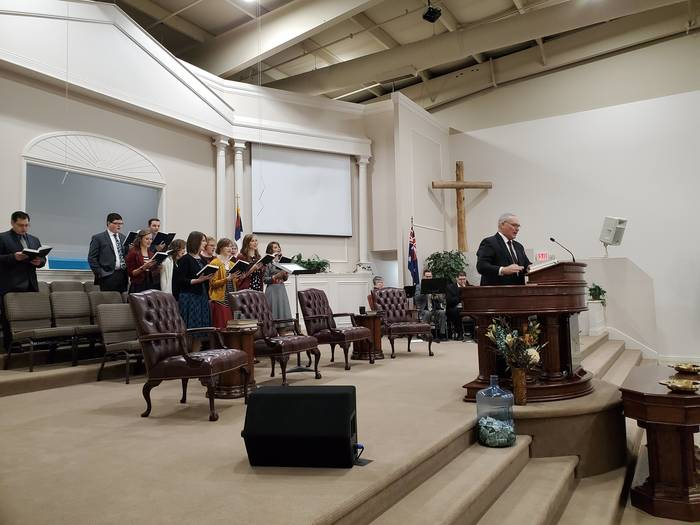
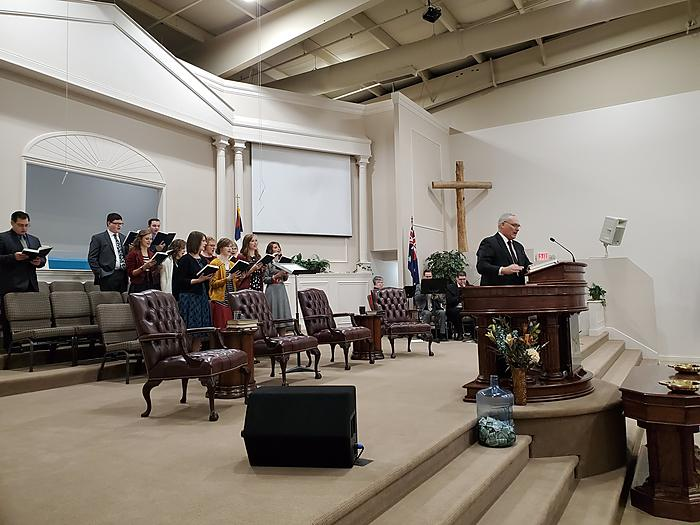
Fix mobile layout: one quick card per row, aligned buttons, sharper photos
The four "quick answers" cards were two-per-row on a phone, leaving each about
150px wide and squeezing the copy to five or six characters per line. They now
sit one per row laid out sideways, icon beside the text, giving a 223px text
column at 18-23 characters per line. This needed a .quick-body wrapper: the card
became a two-column grid but had three children, so the paragraph fell into the
52px icon column.

Button pairs sat in a centred paragraph with an inline margin-left on the second
one, which threw them out of alignment as soon as they wrapped. They now use a
.btn-row that stacks them full-width and flush on narrow screens. Applied on
I'm New, Ministries, Beliefs, Gospel and 404. The gallery also drops to one
column below 520px, and the Expand all control was under the comfortable tap
size.

Audited every page at 375px for overflow, elements past the right edge, squeezed
copy, misaligned button stacks, small tap targets and upscaled images. All clean
now; the contact form was already fine, with 16px fields that avoid iOS zoom.

Photos: the sanctuary images are re-derived from the true originals with a
Lanczos downscale and a light unsharp mask, which is real sharpening rather than
regeneration. They now carry srcset so a phone fetches 700w or 1200w instead of
the full file.

Nine supplied ChatGPT-generated images are deliberately not used and are
preserved in gitignored source-media/ai-generated-NOT-published/ with a README
[…]

diff --git a/im-new.html b/im-new.html
@@ -26,7 +26,7 @@
 <link rel="preconnect" href="https://fonts.googleapis.com">
 <link rel="preconnect" href="https://fonts.gstatic.com" crossorigin>
 <link href="https://fonts.googleapis.com/css2?family=Bitter:wght@600;700&family=Work+Sans:wght@400;500;600&display=swap" rel="stylesheet">
-<link rel="stylesheet" href="style.css?v=8">
+<link rel="stylesheet" href="style.css?v=10">
 </head>
 <body>
 
@@ -79,23 +79,31 @@
     <div class="quick-grid">
       <div class="quick-card fade-up">
         <div class="quick-icon"><svg width="22" height="22" viewBox="0 0 24 24" fill="none" stroke-width="2" stroke-linecap="round" stroke-linejoin="round"><circle cx="12" cy="12" r="9"/><polyline points="12 7 12 12 15.5 14"/></svg></div>
-        <h3>When to come</h3>
-        <p>Sunday at 11:00 am is our main service. Bible classes start at 10:00 am.</p>
+        <div class="quick-body">
+          <h3>When to come</h3>
+          <p>Sunday 11:00 am is the main service. Bible classes at 10:00 am.</p>
+        </div>
       </div>
       <div class="quick-card fade-up">
         <div class="quick-icon"><svg width="22" height="22" viewBox="0 0 24 24" fill="none" stroke-width="2" stroke-linecap="round" stroke-linejoin="round"><path d="M20.4 14.5 16 10 4 20"/><path d="M4 6h4l2-3h4l2 3h4v12H4z"/><circle cx="12" cy="11" r="2.5"/></svg></div>
-        <h3>How long</h3>
-        <p>The service runs a little over an hour, music followed by preaching.</p>
+        <div class="quick-body">
+          <h3>How long</h3>
+          <p>The service runs a little over an hour, music followed by preaching.</p>
+        </div>
       </div>
       <div class="quick-card fade-up">
         <div class="quick-icon"><svg width="22" height="22" viewBox="0 0 24 24" fill="none" stroke-width="2" stroke-linecap="round" stroke-linejoin="round"><path d="M12 3 4 7v6c0 4 3.5 7 8 8 4.5-1 8-4 8-8V7z"/><path d="M9 12l2 2 4-4"/></svg></div>
-        <h3>What to wear</h3>
-        <p>Many dress up, but come as you are. We want you comfortable.</p>
+        <div class="quick-body">
+          <h3>What to wear</h3>
+          <p>Many dress up, but come as you are.</p>
+        </div>
       </div>
       <div class="quick-card fade-up">
         <div class="quick-icon"><svg width="22" height="22" viewBox="0 0 24 24" fill="none" stroke-width="2" stroke-linecap="round" stroke-linejoin="round"><circle cx="9" cy="8" r="3"/><circle cx="17" cy="10" r="2.2"/><path d="M3 20v-1.5A4.5 4.5 0 0 1 7.5 14h3A4.5 4.5 0 0 1 15 18.5V20"/><path d="M17 14.5c2 0 4 1.3 4 3.5V20"/></svg></div>
-        <h3>Your kids</h3>
-        <p>Nursery at every service, plus classes for ages 3 through sixth grade.</p>
+        <div class="quick-body">
+          <h3>Your kids</h3>
+          <p>Nursery at every service, plus classes for ages 3 through sixth grade.</p>
+        </div>
       </div>
     </div>
   </div>
@@ -199,9 +207,9 @@
       </div>
     </div>
 
-    <div style="text-align:center; margin-top:32px;">
+    <div class="btn-row" style="margin-top:32px;">
       <a class="btn btn-primary" href="contact.html">Get in Touch</a>
-      <a class="btn btn-outline" href="https://www.google.com/maps?q=Lighthouse+Baptist+Church,+2445+W.+Kem+Road,+Marion,+IN+46952" style="margin-left:8px;">Get Directions</a>
+      <a class="btn btn-outline" href="https://www.google.com/maps?q=Lighthouse+Baptist+Church,+2445+W.+Kem+Road,+Marion,+IN+46952">Get Directions</a>
     </div>
   </div>
 </section>

diff --git a/style.css b/style.css
@@ -100,6 +100,10 @@ a { color: var(--accent); }
 .btn-primary:hover { background: var(--primary-dark); border-color: var(--primary-dark); }
 .btn-outline { background: transparent; color: var(--primary); border: 2px solid var(--primary); }
 .btn-outline:hover { background: var(--primary); color: #fff; }
+/* Pairs of buttons. Previously these sat in a centred <p> with an inline
+   margin-left on the second one, which threw them out of alignment the moment
+   they wrapped onto separate lines on a phone. */
+.btn-row { display: flex; flex-wrap: wrap; gap: 12px; justify-content: center; }
 .btn-light { background: #fff; color: var(--primary); border-color: #fff; }
 .btn-light:hover { background: var(--base-tint); border-color: var(--base-tint); }
 .btn-outline-light { background: transparent; color: #fff; border-color: #fff; }
@@ -340,9 +344,9 @@ a { color: var(--accent); }
 
 .acc-controls { display: flex; justify-content: flex-end; gap: 10px; margin-bottom: 14px; }
 .acc-toggle-all {
-  background: none; border: 1px solid #c9d6e2; border-radius: var(--radius);
+  background: var(--white); border: 1px solid #c9d6e2; border-radius: var(--radius);
   color: var(--primary); font-family: var(--font-body); font-weight: 600;
-  font-size: 0.9rem; padding: 8px 16px; cursor: pointer;
+  font-size: 0.9rem; padding: 11px 18px; cursor: pointer; min-height: 42px;
 }
 .acc-toggle-all:hover { background: var(--primary); color: #fff; border-color: var(--primary); }
 .acc-toggle-all:focus-visible { outline: 3px solid var(--accent-sky); outline-offset: 2px; }
@@ -575,7 +579,18 @@ a { color: var(--accent); }
   .card-grid { grid-template-columns: 1fr; }
   .gallery-grid { grid-template-columns: 1fr 1fr; gap: 14px; }
   .gallery-item img { height: 180px; }
-  .quick-grid { grid-template-columns: 1fr 1fr; gap: 12px; }
+  /* One card per row, laid out sideways. Two columns on a phone left each card
+     about 150px wide, which squeezed the copy into three-word lines. */
+  .quick-grid { grid-template-columns: 1fr; gap: 12px; }
+  /* icon in the first column, heading and copy together in the second. They must
+     be wrapped in .quick-body, or the paragraph becomes a third grid item and
+     lands in the 52px icon column. */
+  .quick-card {
+    display: grid; grid-template-columns: 52px 1fr; gap: 16px;
+    align-items: center; text-align: left; padding: 18px;
+  }
+  .quick-icon { margin: 0; }
+  .quick-card h3 { margin-bottom: 4px; }
   .photo-band img { aspect-ratio: 3 / 2; }
   .acc-btn { font-size: 1.02rem; padding: 16px 18px; }
   .acc-panel { padding: 4px 18px 18px; }
@@ -586,10 +601,20 @@ a { color: var(--accent); }
   .service-band-inner { gap: 18px; flex-direction: column; }
 }
 
+@media (max-width: 560px) {
+  /* full-width stacked buttons, so a pair lines up instead of stepping */
+  .btn-row { flex-direction: column; align-items: stretch; }
+  .btn-row .btn { width: 100%; }
+  .hero-buttons { flex-direction: column; align-items: stretch; }
+  .hero-buttons .btn { width: 100%; }
+}
+
 @media (max-width: 520px) {
   .footer-grid { grid-template-columns: 1fr; }
   .hero-copy h1 { font-size: 1.9rem; }
   .gospel-section { grid-template-columns: 1fr; }
+  .gallery-grid { grid-template-columns: 1fr; }
+  .gallery-item img { height: 210px; }
 }
 
 /* ---------- print ---------- */

diff --git a/ministries.html b/ministries.html
@@ -26,7 +26,7 @@
 <link rel="preconnect" href="https://fonts.googleapis.com">
 <link rel="preconnect" href="https://fonts.gstatic.com" crossorigin>
 <link href="https://fonts.googleapis.com/css2?family=Bitter:wght@600;700&family=Work+Sans:wght@400;500;600&display=swap" rel="stylesheet">
-<link rel="stylesheet" href="style.css?v=8">
+<link rel="stylesheet" href="style.css?v=10">
 </head>
 <body>
 
@@ -113,7 +113,11 @@
 </section>
 
 <div class="photo-band">
-  <img src="img/sanctuary-choir.jpg" alt="The congregation and choir together during a Sunday service" width="1400" height="1050" loading="lazy">
+  <img src="img/sanctuary-choir-1200.jpg"
+       srcset="img/sanctuary-choir-sm.jpg 700w, img/sanctuary-choir-1200.jpg 1200w"
+       sizes="(max-width: 1149px) 100vw, 1052px"
+       alt="The congregation and choir together during a Sunday service"
+       width="1200" height="900" loading="lazy">
 </div>
 
 <section class="section">
@@ -121,10 +125,10 @@
     <h2>Come and See for Yourself</h2>
     <span class="wave-rule"></span>
     <p style="margin-top:16px;">The best way to find where your family fits is to visit. Our greeters will help you find the right class or service for everyone.</p>
-    <p style="margin-top:20px;">
+    <div class="btn-row" style="margin-top:22px;">
       <a class="btn btn-primary" href="im-new.html">Plan Your Visit</a>
-      <a class="btn btn-outline" href="contact.html" style="margin-left:8px;">Ask a Question</a>
-    </p>
+      <a class="btn btn-outline" href="contact.html">Ask a Question</a>
+    </div>
   </div>
 </section>
 

diff --git a/index.html b/index.html
@@ -26,8 +26,10 @@
 <link rel="preconnect" href="https://fonts.googleapis.com">
 <link rel="preconnect" href="https://fonts.gstatic.com" crossorigin>
 <link href="https://fonts.googleapis.com/css2?family=Bitter:wght@600;700&family=Work+Sans:wght@400;500;600&display=swap" rel="stylesheet">
-<link rel="preload" as="image" href="img/sanctuary-choir.jpg" fetchpriority="high">
-<link rel="stylesheet" href="style.css?v=8">
+<link rel="preload" as="image" href="img/sanctuary-choir-1200.jpg"
+      imagesrcset="img/sanctuary-choir-sm.jpg 700w, img/sanctuary-choir-1200.jpg 1200w, img/sanctuary-choir.jpg 1400w"
+      imagesizes="100vw" fetchpriority="high">
+<link rel="stylesheet" href="style.css?v=10">
 </head>
 <body>
 
@@ -68,7 +70,11 @@
 <main>
 
 <section class="hero-full">
-  <img class="hero-bg" src="img/sanctuary-choir.jpg" alt="The choir and congregation during a Sunday service at Lighthouse Baptist Church" width="1400" height="1050" fetchpriority="high">
+  <img class="hero-bg" src="img/sanctuary-choir-1200.jpg"
+       srcset="img/sanctuary-choir-sm.jpg 700w, img/sanctuary-choir-1200.jpg 1200w, img/sanctuary-choir.jpg 1400w"
+       sizes="100vw"
+       alt="The choir and congregation during a Sunday service at Lighthouse Baptist Church"
+       width="1400" height="1050" fetchpriority="high">
   <div class="hero-overlay"></div>
   <div class="hero-content">
     <div class="hero-copy">

diff --git a/404.html b/404.html
@@ -12,7 +12,7 @@
 <link rel="preconnect" href="https://fonts.googleapis.com">
 <link rel="preconnect" href="https://fonts.gstatic.com" crossorigin>
 <link href="https://fonts.googleapis.com/css2?family=Bitter:wght@600;700&family=Work+Sans:wght@400;500;600&display=swap" rel="stylesheet">
-<link rel="stylesheet" href="style.css?v=8">
+<link rel="stylesheet" href="style.css?v=10">
 </head>
 <body>
 
@@ -23,10 +23,10 @@
     <h1>Page Not Found</h1>
     <span class="wave-rule"></span>
     <p style="margin:16px 0 28px; color:var(--text-light);">The page you are looking for may have moved when we updated our website. Here are the pages people look for most:</p>
-    <p>
+    <div class="btn-row">
       <a class="btn btn-primary" href="index.html">Home</a>
-      <a class="btn btn-outline" href="im-new.html" style="margin-left:8px;">Plan Your Visit</a>
-    </p>
+      <a class="btn btn-outline" href="im-new.html">Plan Your Visit</a>
+    </div>
     <p style="margin-top:20px;">
       <a href="beliefs.html">What We Believe</a> &nbsp;|&nbsp;
       <a href="contact.html">Contact</a>

diff --git a/gospel.html b/gospel.html
@@ -26,7 +26,7 @@
 <link rel="preconnect" href="https://fonts.googleapis.com">
 <link rel="preconnect" href="https://fonts.gstatic.com" crossorigin>
 <link href="https://fonts.googleapis.com/css2?family=Bitter:wght@600;700&family=Work+Sans:wght@400;500;600&display=swap" rel="stylesheet">
-<link rel="stylesheet" href="style.css?v=8">
+<link rel="stylesheet" href="style.css?v=10">
 </head>
 <body>
 
@@ -149,8 +149,10 @@
     <div class="gospel-cta fade-up">
       <h2>We Would Love to Talk With You</h2>
       <p>If you have questions about the gospel, or you would like someone to show you these things from the Bible in person, please reach out. There is nothing we would rather talk about.</p>
-      <a class="btn btn-light" href="tel:+17653847572">Call (765) 384-7572</a>
-      <a class="btn btn-light" href="mailto:info@lbc-marion.org">Email Us</a>
+      <div class="btn-row">
+        <a class="btn btn-light" href="tel:+17653847572">Call (765) 384-7572</a>
+        <a class="btn btn-light" href="mailto:info@lbc-marion.org">Email Us</a>
+      </div>
     </div>
 
   </div>

diff --git a/contact.html b/contact.html
@@ -26,7 +26,7 @@
 <link rel="preconnect" href="https://fonts.googleapis.com">
 <link rel="preconnect" href="https://fonts.gstatic.com" crossorigin>
 <link href="https://fonts.googleapis.com/css2?family=Bitter:wght@600;700&family=Work+Sans:wght@400;500;600&display=swap" rel="stylesheet">
-<link rel="stylesheet" href="style.css?v=8">
+<link rel="stylesheet" href="style.css?v=10">
 </head>
 <body>
 
@@ -87,7 +87,7 @@
       </ul>
       <h3 style="margin-top:24px;">Service Times</h3>
       <ul>
-        <li><strong>Sunday</strong> 10:00 am, Bible Classes for all ages</li>
+        <li><strong>Sunday</strong> 10:00 am, Bible Classes</li>
         <li><strong>Sunday</strong> 11:00 am, Morning Service</li>
         <li><strong>Sunday</strong> 6:00 pm, Evening Service</li>
         <li><strong>Wednesday</strong> 7:00 pm, Bible Study</li>

diff --git a/beliefs.html b/beliefs.html
@@ -26,7 +26,7 @@
 <link rel="preconnect" href="https://fonts.googleapis.com">
 <link rel="preconnect" href="https://fonts.gstatic.com" crossorigin>
 <link href="https://fonts.googleapis.com/css2?family=Bitter:wght@600;700&family=Work+Sans:wght@400;500;600&display=swap" rel="stylesheet">
-<link rel="stylesheet" href="style.css?v=8">
+<link rel="stylesheet" href="style.css?v=10">
 </head>
 <body>
 
@@ -521,7 +521,7 @@
       </div>
     </div>
 
-    <div style="text-align:center; margin-top:32px;">
+    <div class="btn-row" style="margin-top:32px;">
       <a class="btn btn-primary" href="gospel.html">What Is the Gospel?</a>
     </div>
   </div>

diff --git a/README.md b/README.md
@@ -84,6 +84,35 @@ channel; the old site's YouTube icon pointed at youtube.com's homepage) and
   scratchpad, not the repo; regenerating means re-deriving the reference parser, so
   **edit the pills in place rather than re-running a script over them.**
 
+## Images: no AI-generated imagery
+
+**Nine ChatGPT-generated images were supplied on 2026-08-08 and were not used.**
+They were intended as cleaned-up versions of the church's real photos, but they
+are regenerations rather than enhancements: two of them show the same scene with
+different flags in different positions and a different number of people, and one
+has invented, smeared faces where identifiable congregation members stood. Two
+enhancements of a single photograph cannot disagree with each other.
+
+They are preserved (never delete supplied assets) in
+`source-media/ai-generated-NOT-published/`, which is gitignored so they cannot
+reach the site. That folder has its own README explaining why.
+
+This follows the standing rule in `C:\Git_Repos\CLAUDE.md`: *"Respect the real
+photos... Never AI-generate, montage, invert, or heavily restyle them."* Beyond
+style, these depict identifiable people including the pastor at their own church,
+so publishing altered likenesses is a consent problem, and a visitor could arrive
+expecting a room that does not exist.
+
+**The faithful way to get sharper images**, used here instead: re-derive from the
+true originals in `source-media/` with a Lanczos downscale and a light unsharp
+mask. The pulpit original is 4032x3024 against the 1400px file the site ships, so
+there was real headroom. The sanctuary photos were re-derived this way and now
+also carry `srcset`, so a phone downloads 700w or 1200w instead of the full file.
+
+Note for future measurement: on an image with `srcset` `w` descriptors,
+`naturalWidth` is **density-corrected** and reports the CSS size, not the file's
+intrinsic width. It cannot be used to detect upscaling on those images.
+
 ## Integrations (carried over from the old site, all still owned by the church)
 
 | What | Where |
